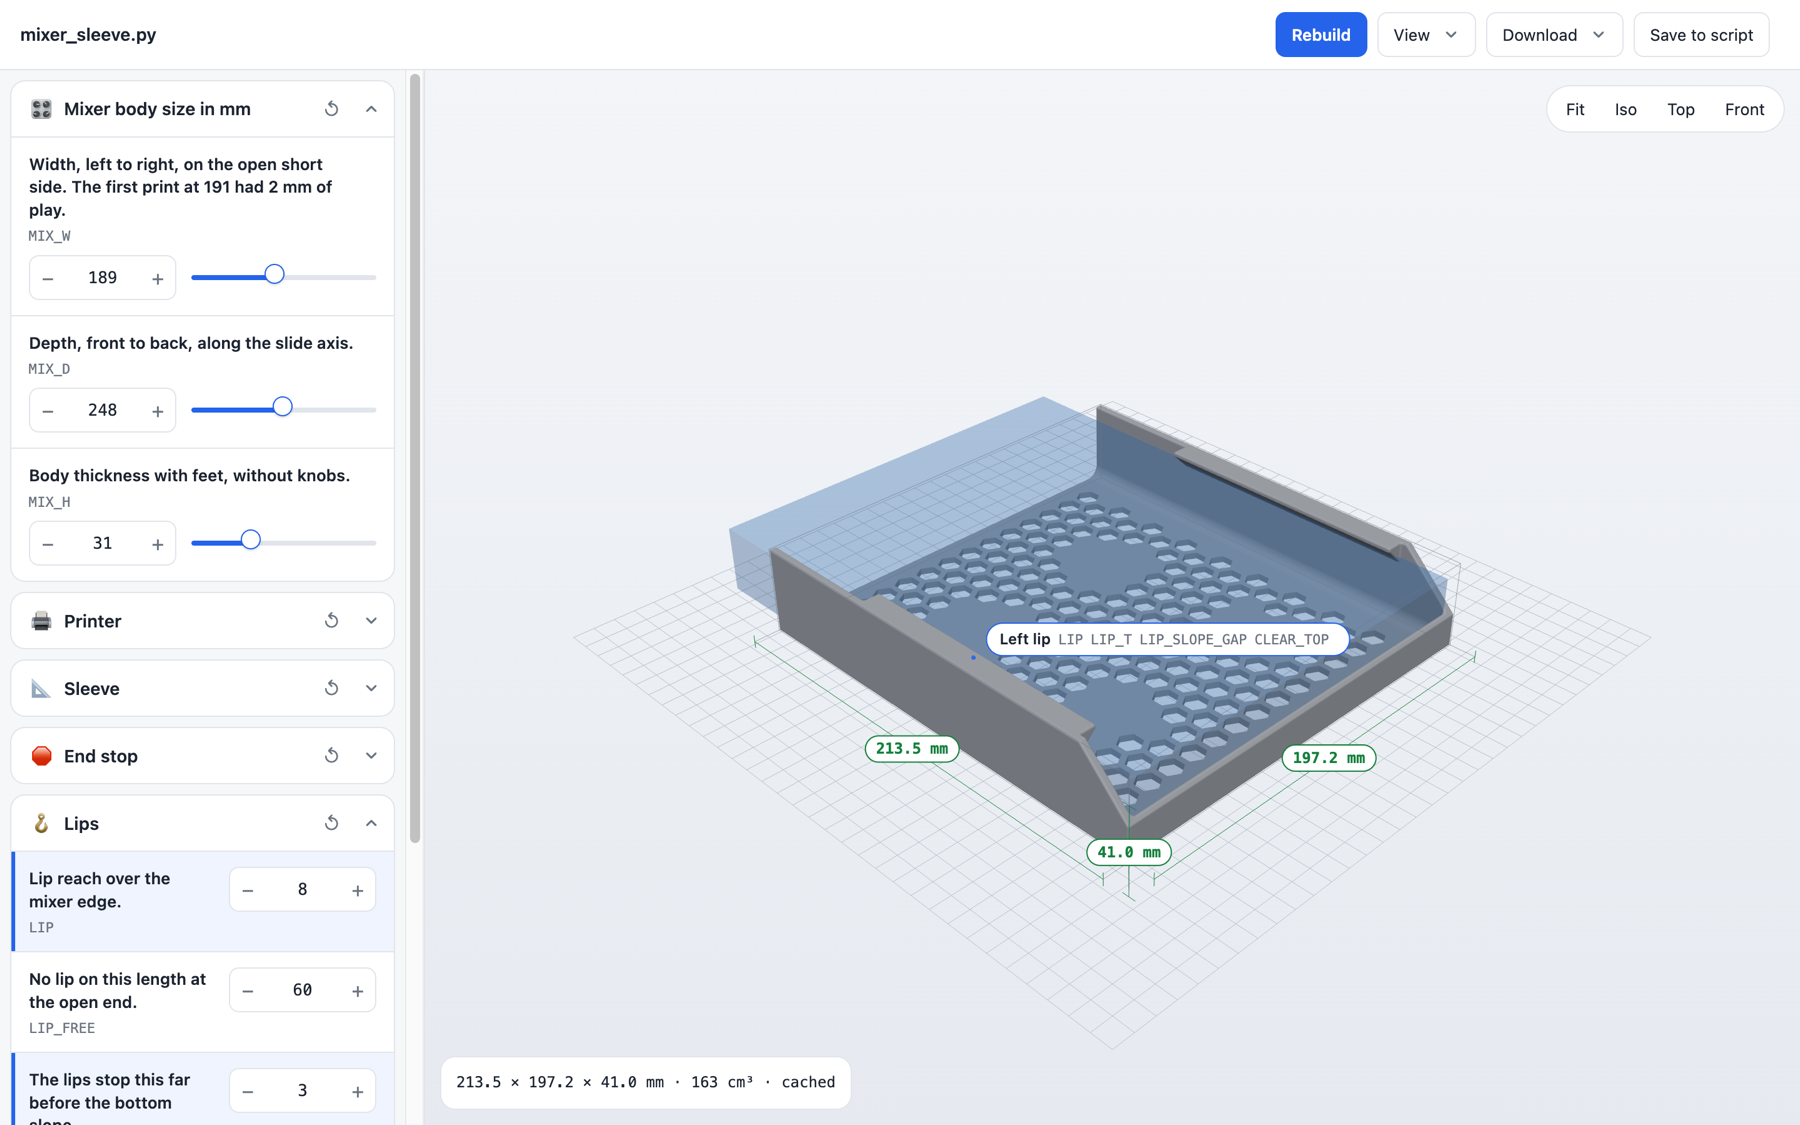
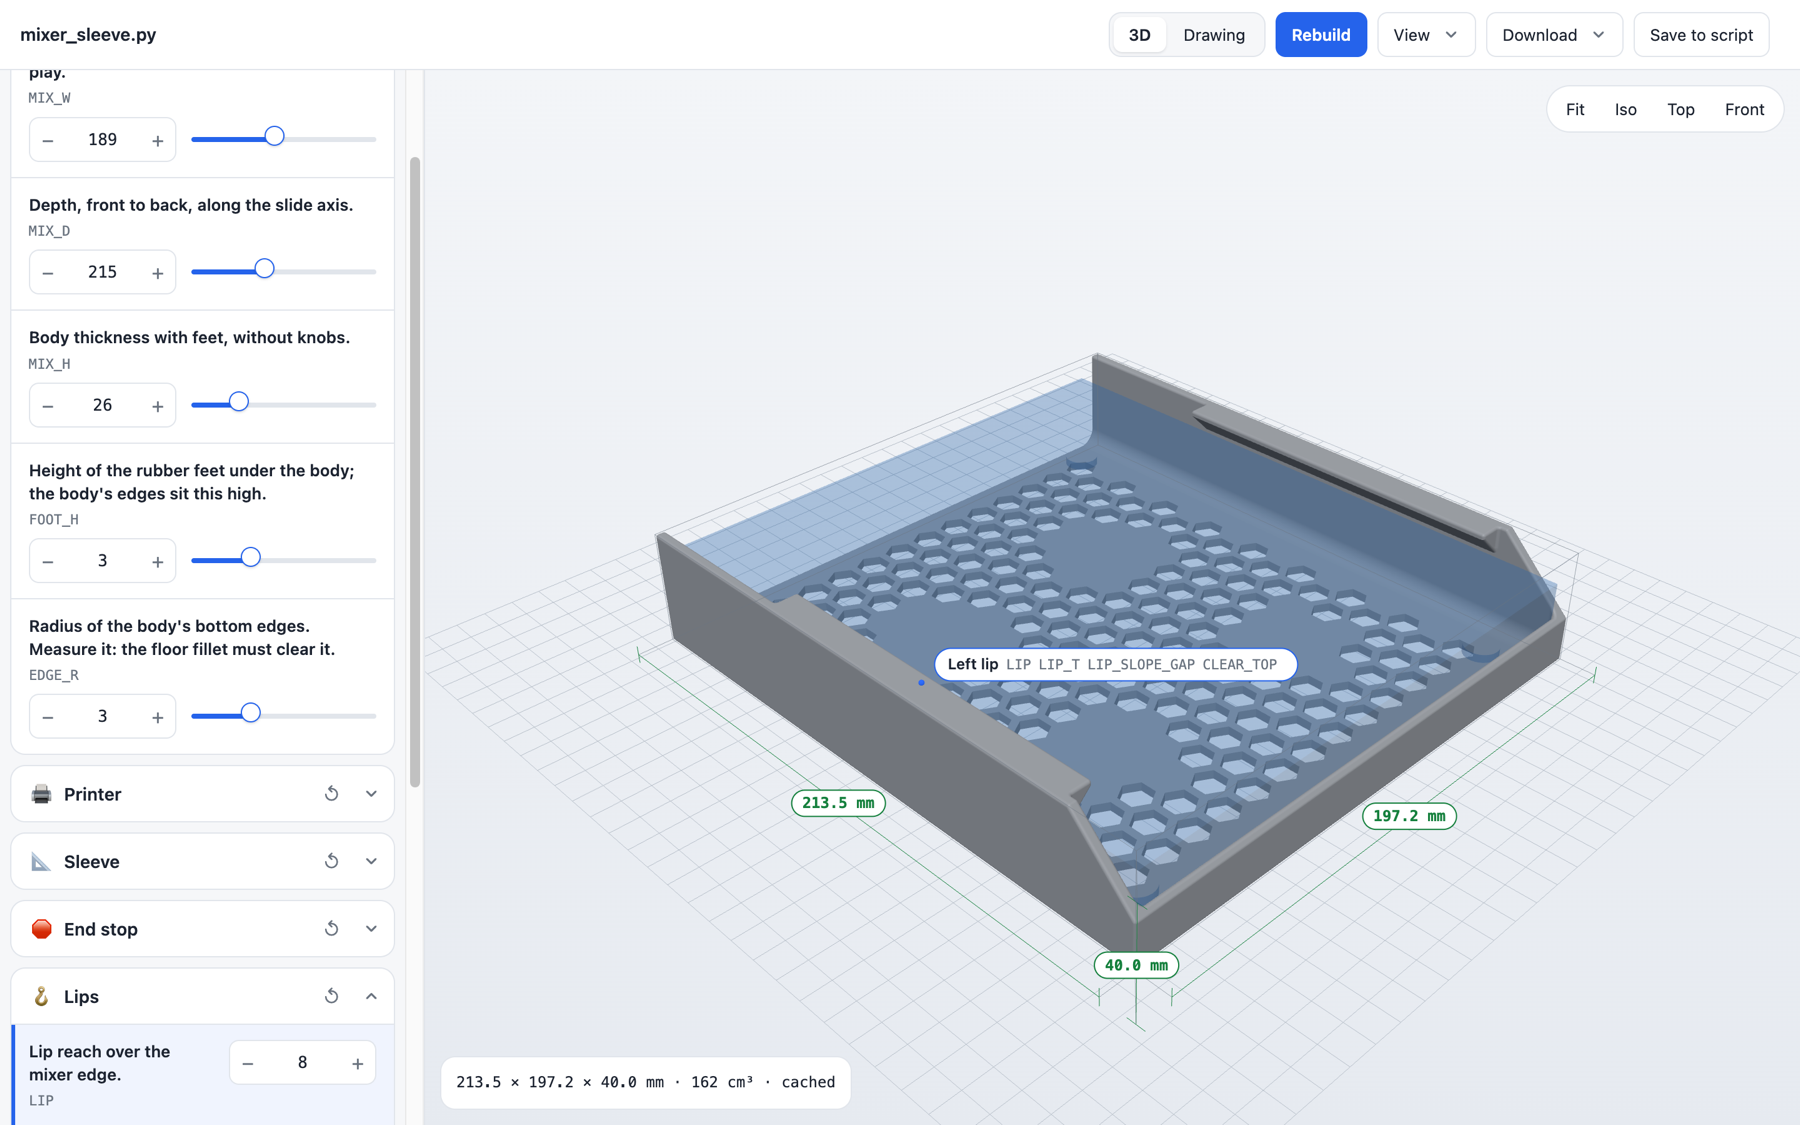
README: fresh screenshots of the configurator and the drawing

diff --git a/README.md b/README.md
@@ -68,6 +68,15 @@ Model Maker but with the CadQuery script as the source of truth:
 - **Features** are named in `features()`: click the lip on the part and the lip settings highlight; click a setting and its feature is tagged on the part.
 - **Dimensions** toggle the bounding box with its three sizes on the part.
 - **Drawing**: Top, Front, Right and Iso, each on its own page, centred and as large as the page allows. Hover an edge to see its dimensions, click to pin them, Show all for the full chains. Download one page or all.
+
+<p align="center">
+  <img src="./assets/drawing.png" alt="The drawing view: the sleeve's top projection filling the page, hidden lines dashed, overall sizes" width="900" />
+</p>
+
+<p align="center">
+  <img src="./assets/drawing_hover.png" alt="Hovering an edge shows its gaps to both neighbours and its distance from the datum" width="900" />
+</p>
+
 - **Rebuild** takes the model's own time, 0.3 s for the funnel, under 2 s for the sleeve, and repeats come from an in-memory cache. **Save to script** writes your values back into the Python file.
 - **Design rules** run in the build: a wall too low for the lips does not crash, it says "raise WALL_H to at least 38.6 or lower LIP to 5.4".
 
